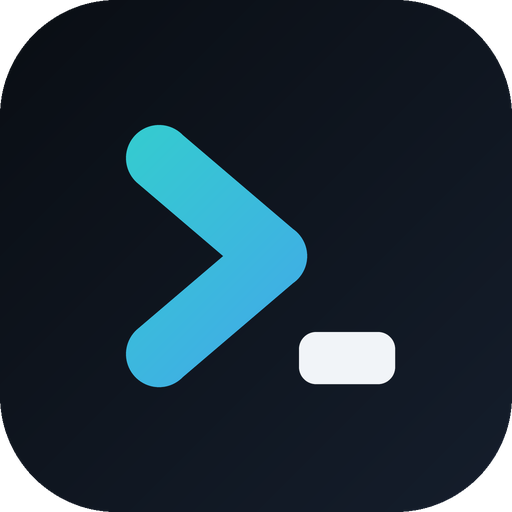
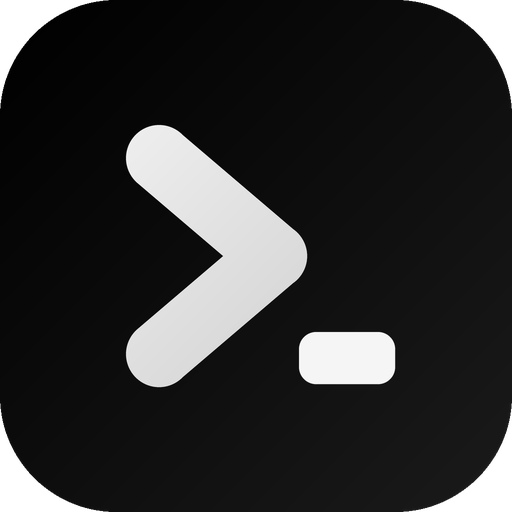
TwilightStarr

Changed region(s): [[0.25, 0.2188, 0.625, 0.7812]]

diff --git a/branding/generate_logo.py b/branding/generate_logo.py
@@ -1,7 +1,7 @@
 """TerminalF logo: komut istemi (>) + imlec (_).
 
 Tek, kalin, yuvarlak uclu bir cizgi: ">" isareti marka gradyaniyla
-(turkuaz -> mavi), altinda aydinlik bir imlec blogu. Ayni geometri SVG'yi,
+(beyaz -> gumus), altinda aydinlik bir imlec blogu. Ayni geometri SVG'yi,
 Android ikon PNG'lerini, bildirim ikonunu ve README bannerini uretir.
 
 Calistirma: python3 branding/generate_logo.py  (Pillow gerekir)
@@ -12,9 +12,9 @@ import os
 from PIL import Image, ImageDraw, ImageFont
 
 S = 1024
-BG1, BG2 = (10, 14, 20), (21, 30, 44)
-TEAL, BLUE = (45, 226, 192), (77, 139, 255)
-WHITE = (241, 244, 248)
+BG1, BG2 = (0, 0, 0), (27, 27, 27)
+TEAL, BLUE = (255, 255, 255), (189, 189, 189)  # beyaz -> gumus
+WHITE = (245, 245, 245)
 
 # ">" cizgisi (orta cizgi noktalari) ve kalinligi
 CHEV = [(318, 316), (548, 512), (318, 708)]
@@ -81,10 +81,10 @@ def background(shape):
 
 def banner(root, legacy):
     W, H = 1280, 480
-    img = Image.new("RGBA", (W, H), (7, 9, 13, 255))
+    img = Image.new("RGBA", (W, H), (0, 0, 0, 255))
     logo = legacy.resize((260, 260), Image.LANCZOS)
     d = ImageDraw.Draw(img)
-    d.rounded_rectangle([146, 106, 414, 374], radius=68, outline=(35, 42, 54), width=2)
+    d.rounded_rectangle([146, 106, 414, 374], radius=68, outline=(42, 42, 42), width=2)
     img.alpha_composite(logo, (150, 110))
     bold = regular = None
     for p in ("/usr/share/fonts/truetype/dejavu/DejaVuSans-Bold.ttf",
@@ -95,8 +95,8 @@ def banner(root, legacy):
             break
     if bold:
         d.text((450, 130), "TerminalF", font=bold, fill=WHITE)
-        d.text((454, 270), "Telefonunu tek yerden yönet.", font=regular, fill=(138, 148, 166))
-        d.text((454, 322), "Açık kaynak · Reklamsız · Veri göndermez", font=regular, fill=TEAL)
+        d.text((454, 270), "Telefonunu tek yerden yönet.", font=regular, fill=(142, 142, 142))
+        d.text((454, 322), "Açık kaynak · Reklamsız · Veri göndermez", font=regular, fill=(214, 214, 214))
     os.makedirs(os.path.join(root, "docs"), exist_ok=True)
     img.convert("RGB").save(os.path.join(root, "docs", "banner.png"), optimize=True)
     legacy.resize((256, 256), Image.LANCZOS).save(os.path.join(root, "docs", "logo.png"), optimize=True)
@@ -131,7 +131,7 @@ def build(root):
     os.makedirs(vals, exist_ok=True)
     open(os.path.join(vals, "ic_launcher_background.xml"), "w").write(
         '<?xml version="1.0" encoding="utf-8"?>\n<resources>\n'
-        '    <color name="ic_launcher_background">#0A0E14</color>\n</resources>\n')
+        '    <color name="ic_launcher_background">#000000</color>\n</resources>\n')
     # Bildirim ikonu: durum cubugunda tek renk (beyaz) vektor + R8 koruma
     dr = os.path.join(res, "drawable")
     os.makedirs(dr, exist_ok=True)
@@ -165,12 +165,12 @@ def svg():
     x0, y0, x1, y1 = CURSOR
     return f'''<svg xmlns="http://www.w3.org/2000/svg" viewBox="0 0 1024 1024" width="512" height="512">
   <defs>
-    <linearGradient id="bg" x1="0" y1="0" x2="1" y2="1"><stop offset="0" stop-color="#0A0E14"/><stop offset="1" stop-color="#151E2C"/></linearGradient>
-    <linearGradient id="brand" gradientUnits="userSpaceOnUse" x1="250" y1="250" x2="620" y2="780"><stop offset="0" stop-color="#2DE2C0"/><stop offset="1" stop-color="#4D8BFF"/></linearGradient>
+    <linearGradient id="bg" x1="0" y1="0" x2="1" y2="1"><stop offset="0" stop-color="#000000"/><stop offset="1" stop-color="#1B1B1B"/></linearGradient>
+    <linearGradient id="brand" gradientUnits="userSpaceOnUse" x1="250" y1="250" x2="620" y2="780"><stop offset="0" stop-color="#FFFFFF"/><stop offset="1" stop-color="#BDBDBD"/></linearGradient>
   </defs>
   <rect width="1024" height="1024" rx="232" fill="url(#bg)"/>
   <path d="M {ax} {ay} L {bx} {by} L {cx} {cy}" fill="none" stroke="url(#brand)" stroke-width="{CHEV_W}" stroke-linecap="round" stroke-linejoin="round"/>
-  <rect x="{x0}" y="{y0}" width="{x1-x0}" height="{y1-y0}" rx="{CURSOR_R}" fill="#F1F4F8"/>
+  <rect x="{x0}" y="{y0}" width="{x1-x0}" height="{y1-y0}" rx="{CURSOR_R}" fill="#F5F5F5"/>
 </svg>
 '''
 

diff --git a/README.md b/README.md
@@ -10,8 +10,8 @@
 
 <p align="center">
   <a href="https://github.com/KULLANICI_ADI/TerminalF/actions/workflows/build.yml"><img alt="Build APK" src="https://github.com/KULLANICI_ADI/TerminalF/actions/workflows/build.yml/badge.svg"></a>
-  <a href="LICENSE"><img alt="Lisans: MIT" src="https://img.shields.io/badge/lisans-MIT-2de2c0.svg"></a>
-  <img alt="Platform: Android" src="https://img.shields.io/badge/platform-Android%207%2B-4d8bff.svg">
+  <a href="LICENSE"><img alt="Lisans: MIT" src="https://img.shields.io/badge/lisans-MIT-ffffff.svg"></a>
+  <img alt="Platform: Android" src="https://img.shields.io/badge/platform-Android%207%2B-8e8e8e.svg">
   <img alt="Flutter" src="https://img.shields.io/badge/Flutter-stable-02569B.svg?logo=flutter">
 </p>
 
@@ -82,7 +82,7 @@ Yeni bir ayar eklemek için yalnızca `assets/config/tweaks.json`'a bir kayıt e
 
 ## Logo
 
-`assets/icon/icon.svg` ve `branding/android/res/` aynı geometriden üretilir (`python3 branding/generate_logo.py`). `>` komut istemi, alttaki blok terminal imleci. Gradyan marka renkleridir (turkuaz → mavi). Durum çubuğu bildirim ikonu da aynı işaretten türetilmiştir. Üretmek için `pip install pillow` gerekir; `docs/banner.png` depo için sosyal önizleme görselidir (Settings > Social preview). Android 8+ uyarlanabilir ve Android 13+ tek renkli (themed) ikon dahildir.
+`assets/icon/icon.svg` ve `branding/android/res/` aynı geometriden üretilir (`python3 branding/generate_logo.py`). `>` komut istemi, alttaki blok terminal imleci. Gradyan marka renkleridir (beyaz → gümüş). Durum çubuğu bildirim ikonu da aynı işaretten türetilmiştir. Üretmek için `pip install pillow` gerekir; `docs/banner.png` depo için sosyal önizleme görselidir (Settings > Social preview). Android 8+ uyarlanabilir ve Android 13+ tek renkli (themed) ikon dahildir.
 
 ## Kalıcı imza (isteğe bağlı)
 
